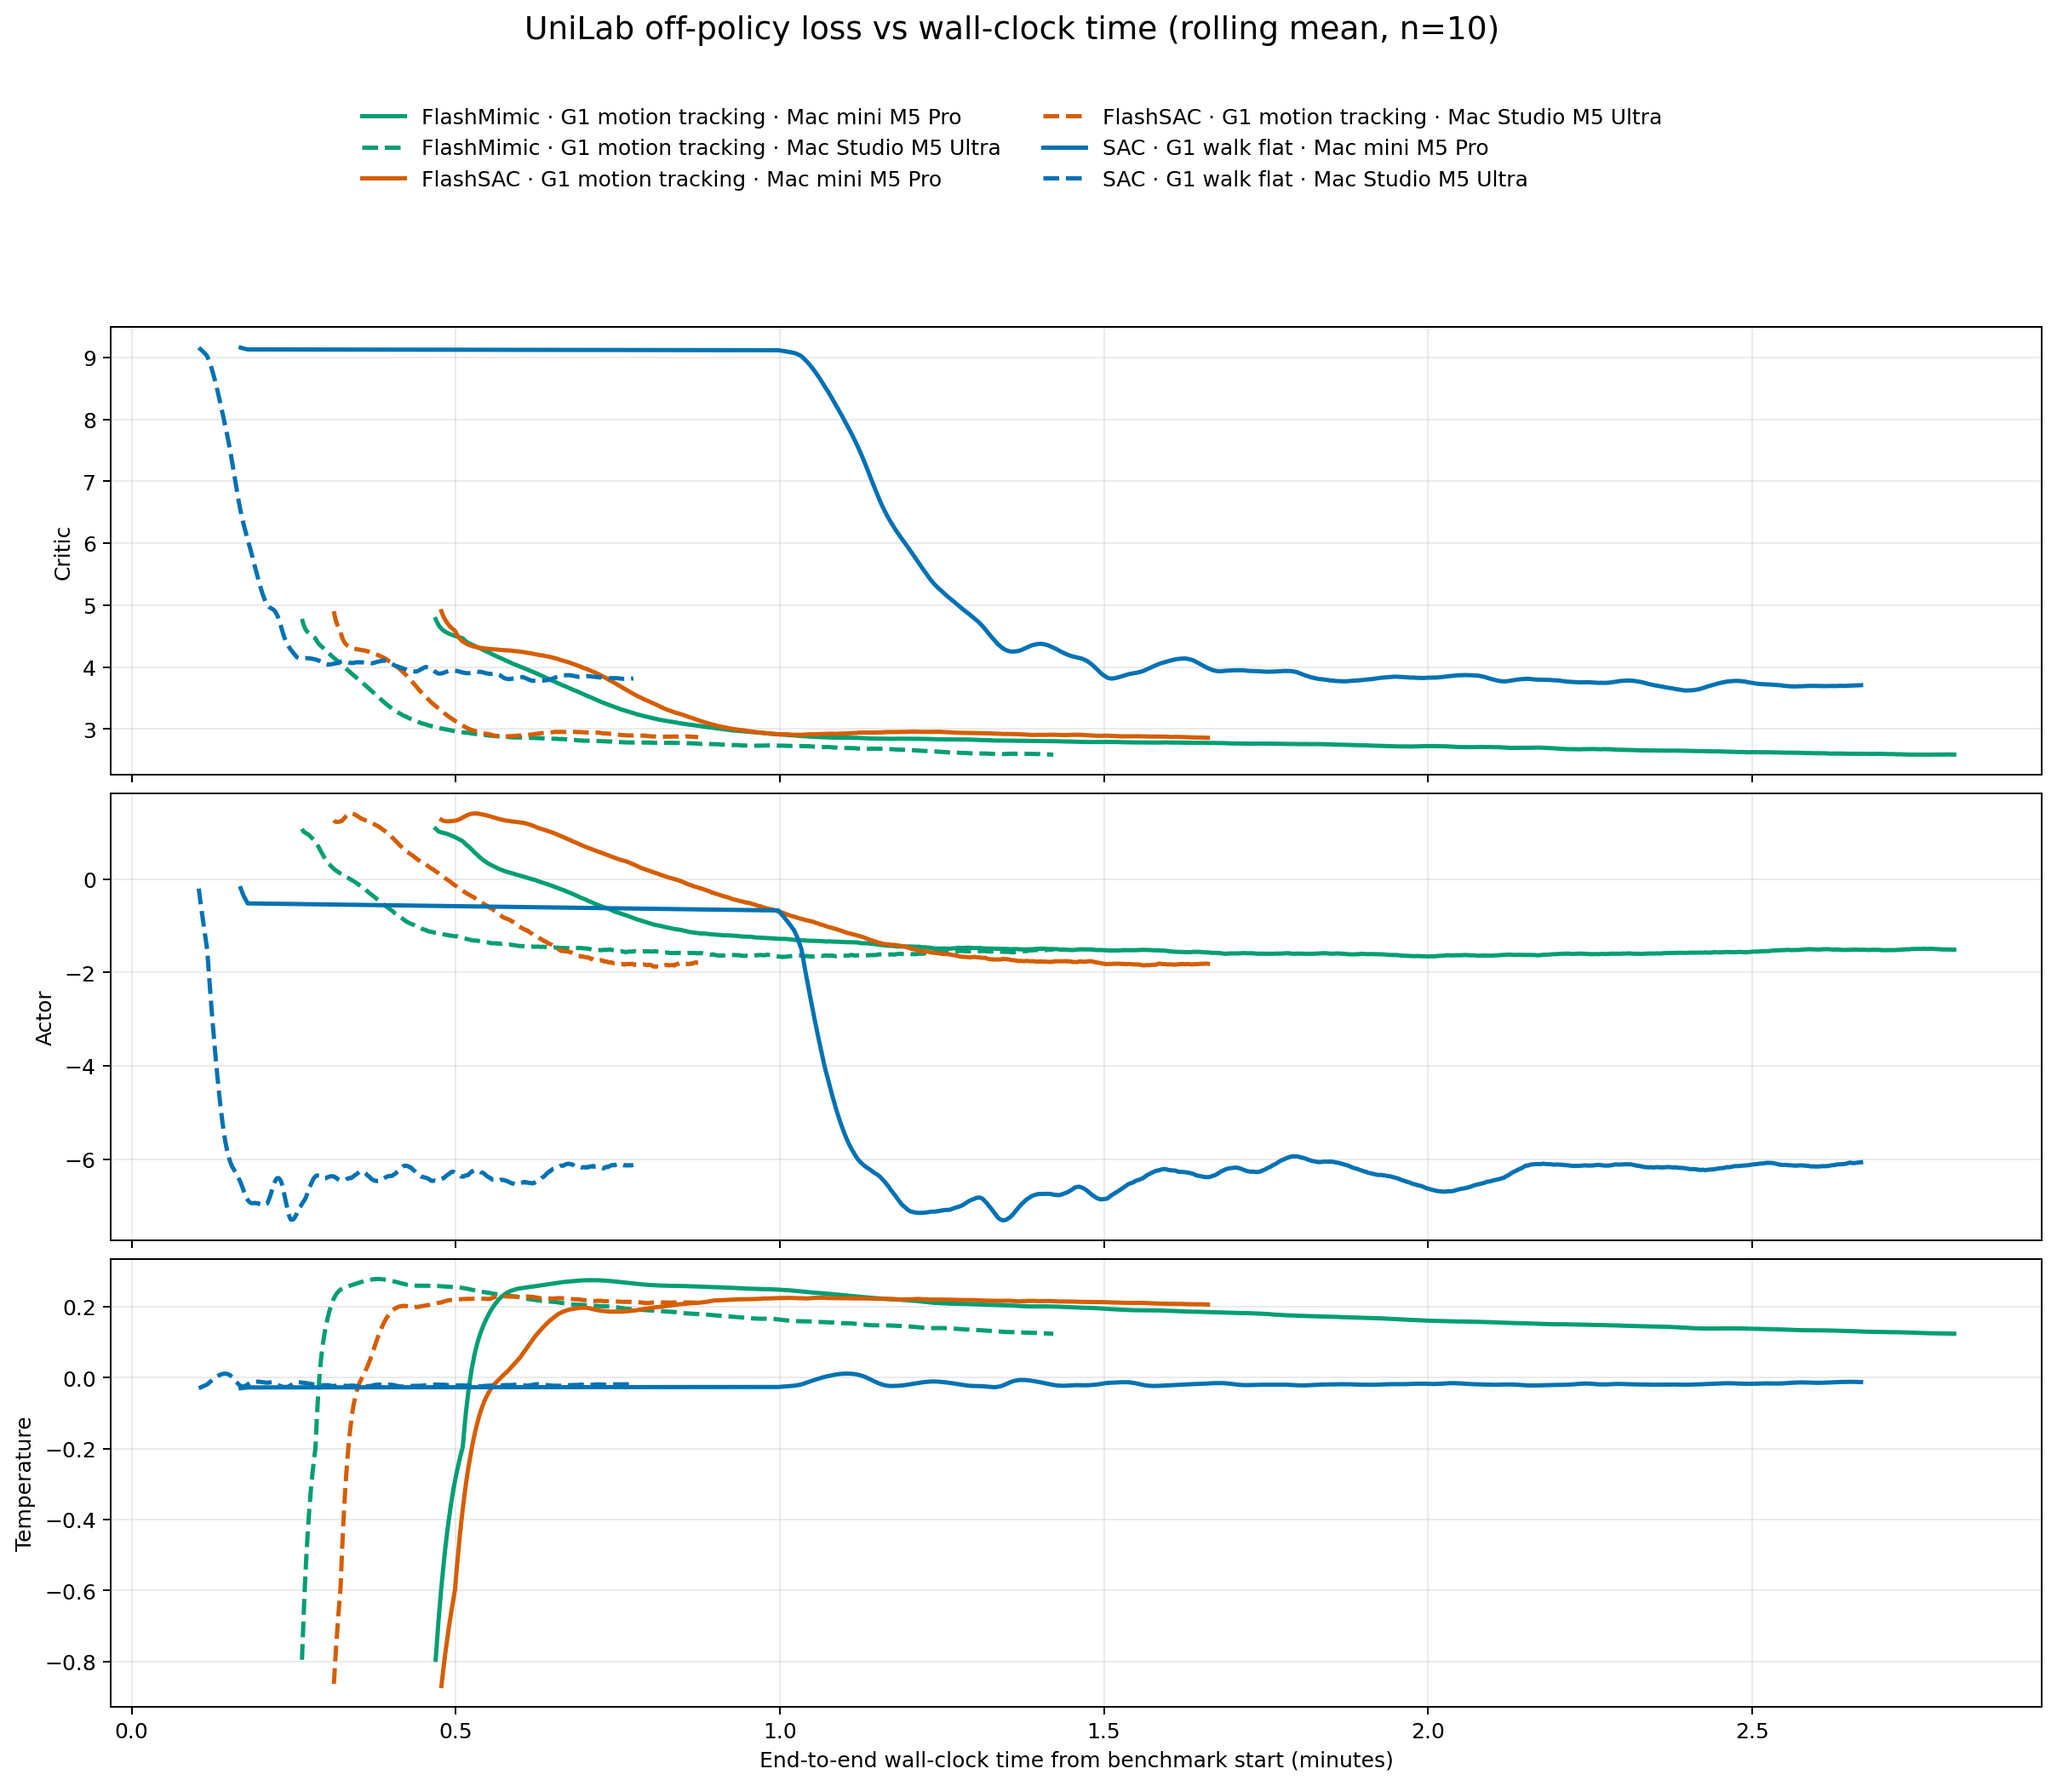
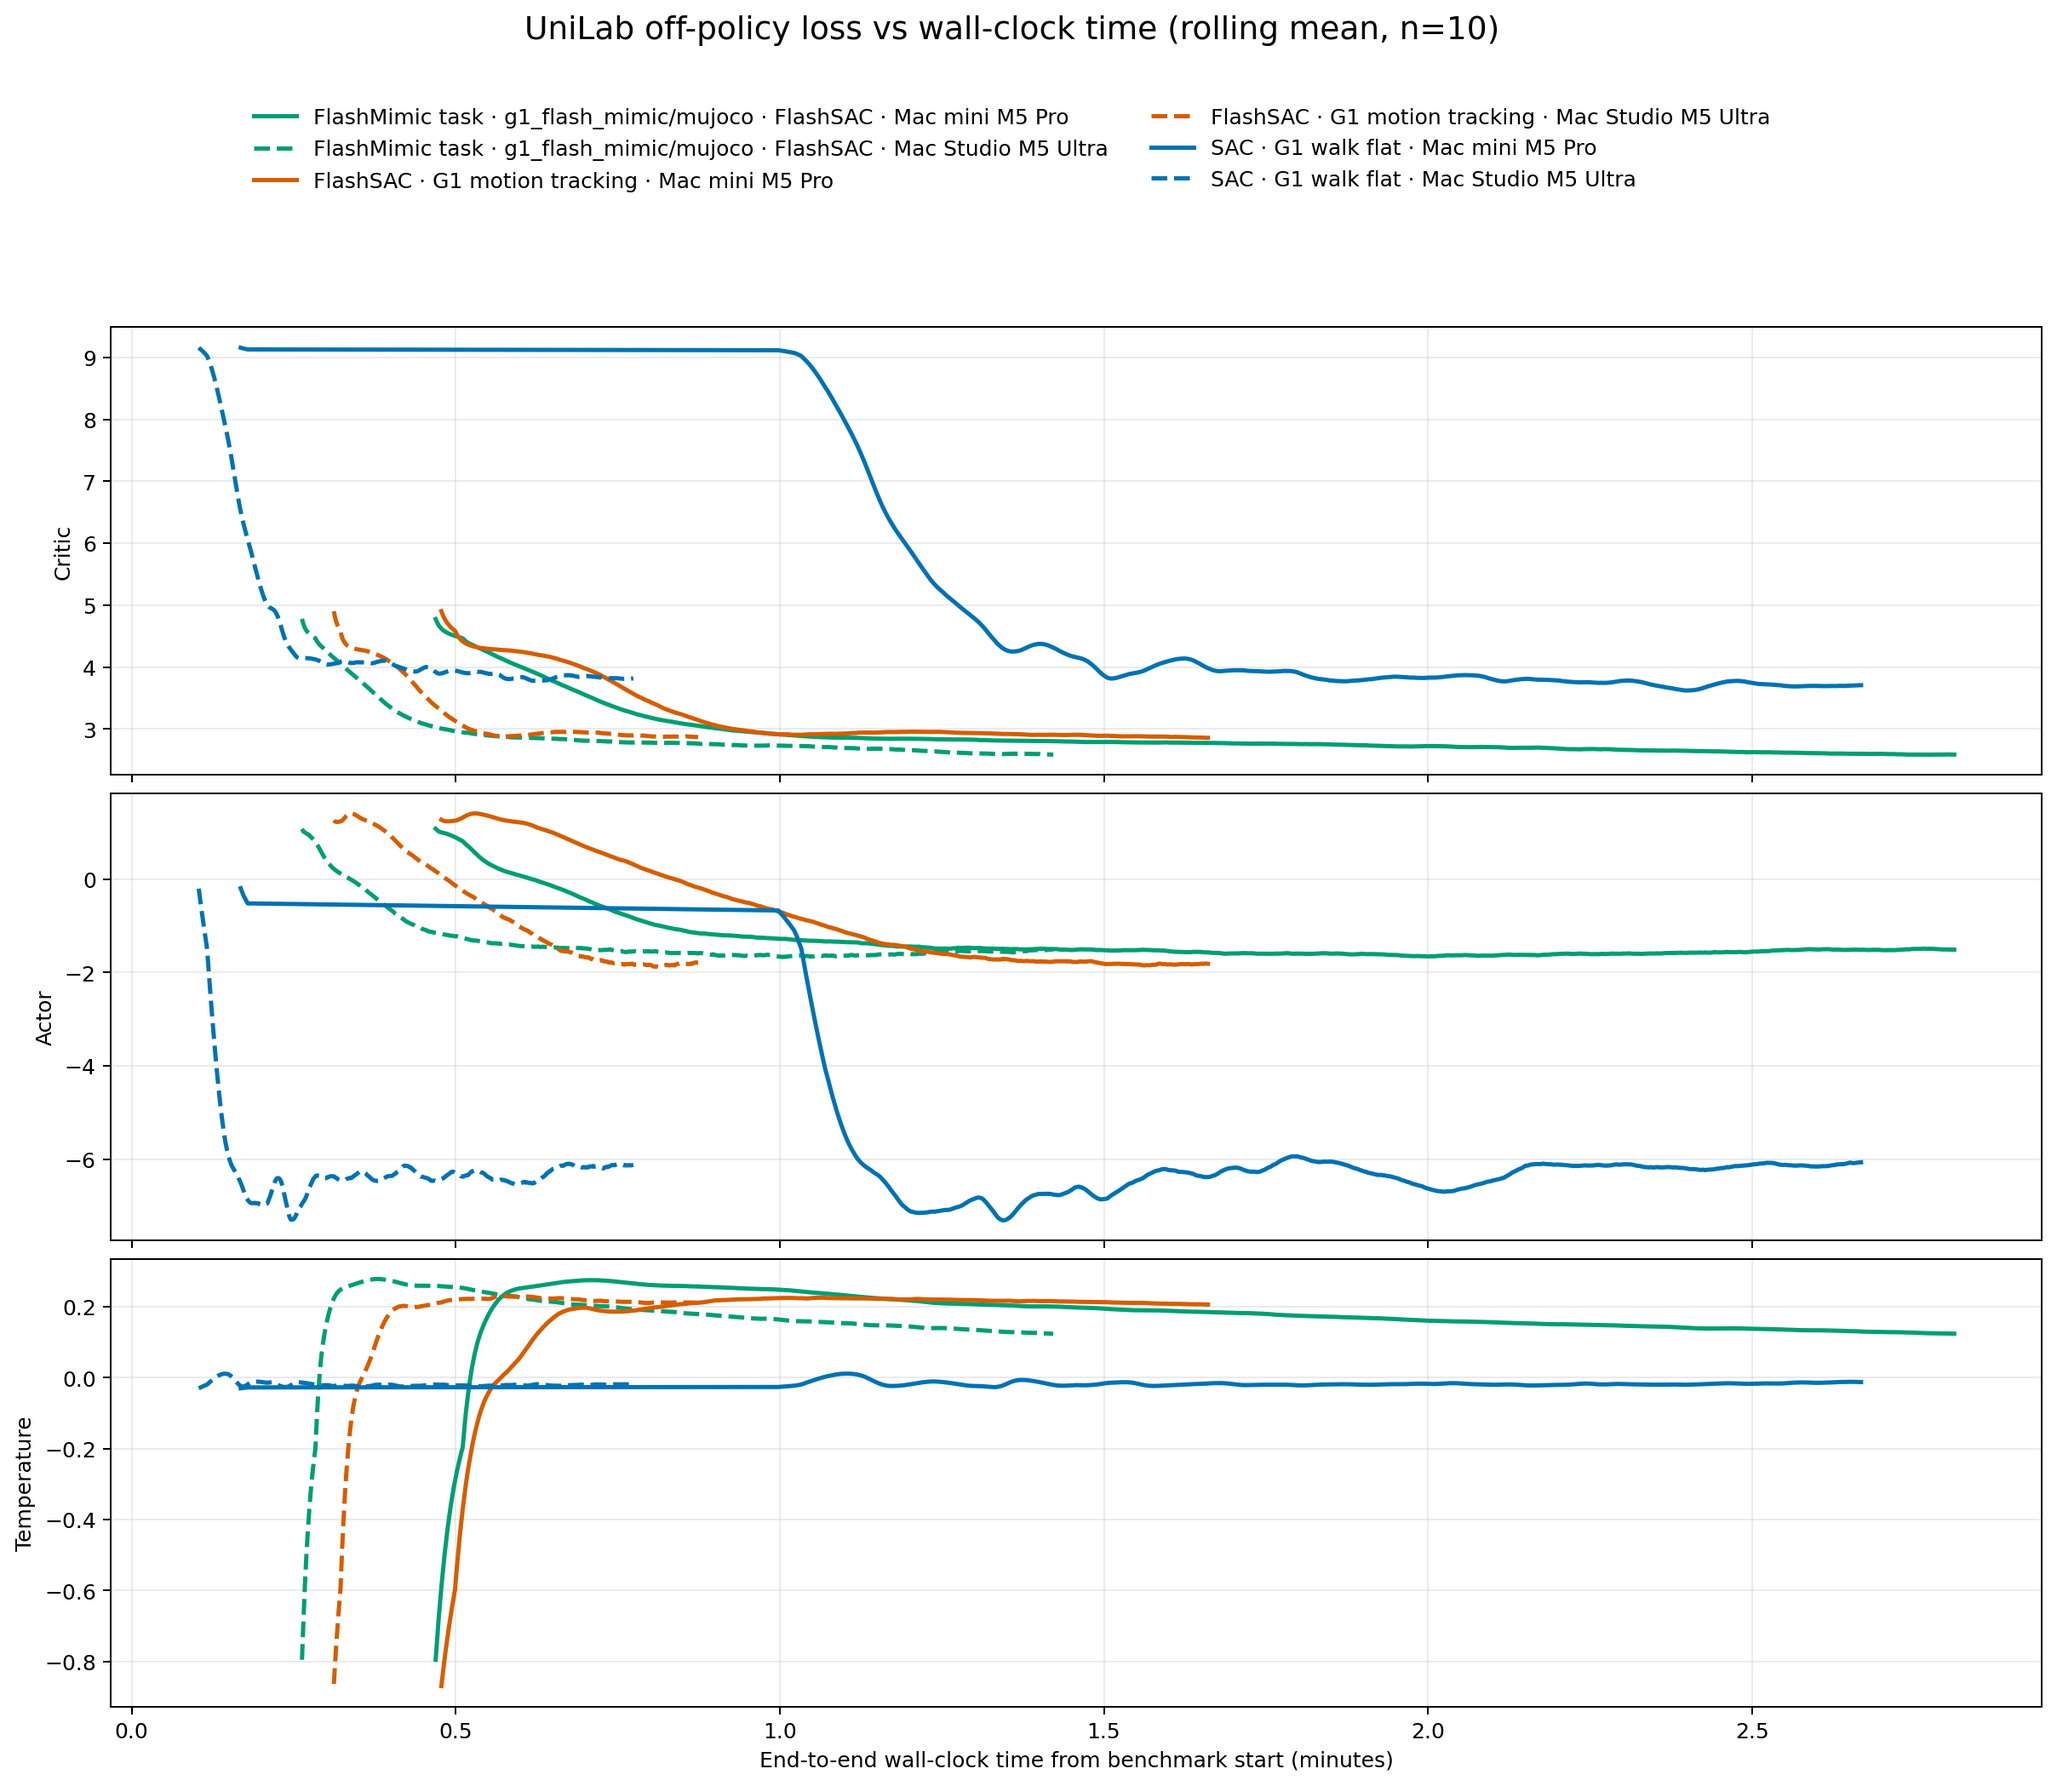
Clarify FlashMimic task and FlashSAC labeling

Changed region(s): [[0.1242, 0.062, 0.8071, 0.1239]]

diff --git a/scripts/analyze_results.py b/scripts/analyze_results.py
@@ -20,7 +20,7 @@ EXTRA_TAGS = ("Train/mean_reward", "Perf/total_fps", "Perf/iteration_time")
 ALGO_LABELS = {
     "sac_g1_walk_flat": "SAC · G1 walk flat",
     "flashsac_g1_motion_tracking": "FlashSAC · G1 motion tracking",
-    "flashmimic_g1_motion_tracking": "FlashMimic · G1 motion tracking",
+    "flashmimic_g1_motion_tracking": "FlashMimic task · g1_flash_mimic/mujoco · FlashSAC",
 }
 ALGO_COLORS = {
     "sac_g1_walk_flat": "#0072B2",

diff --git a/REPORT.md b/REPORT.md
@@ -56,8 +56,8 @@ separately on the test host.
 | Mac Studio M5 Ultra | SAC / G1 walk flat | completed | 500 | 1,044,480 | 40.88 | 49 | 25,433.45 | 15.9735 |
 | Mac mini M5 Pro | FlashSAC / G1 motion tracking | completed | 500 | 1,224,704 | 71.96 | 102 | 14,338.46 | 1.0364 |
 | Mac Studio M5 Ultra | FlashSAC / G1 motion tracking | completed | 500 | 1,224,704 | 34.51 | 55 | 30,628.15 | 0.9746 |
-| Mac mini M5 Pro | FlashMimic / G1 motion tracking | completed | 500 | 1,224,704 | 141.66 | 172 | 7,371.79 | 1.4907 |
-| Mac Studio M5 Ultra | FlashMimic / G1 motion tracking | completed | 500 | 1,224,704 | 70.40 | 88 | 14,860.87 | 1.6286 |
+| Mac mini M5 Pro | FlashMimic task `g1_flash_mimic/mujoco` using FlashSAC | completed | 500 | 1,224,704 | 141.66 | 172 | 7,371.79 | 1.4907 |
+| Mac Studio M5 Ultra | FlashMimic task `g1_flash_mimic/mujoco` using FlashSAC | completed | 500 | 1,224,704 | 70.40 | 88 | 14,860.87 | 1.6286 |
 
 `Training wall time` is `run_summary.json.training_wall_time_sec`.
 `End-to-end wall time` is the benchmark wrapper's integer-second interval from
@@ -67,7 +67,7 @@ before CLI process launch through successful process exit.
 |---|---:|---:|---:|
 | SAC / G1 walk flat | 2.47× | 72.9% | 69.9% |
 | FlashSAC / G1 motion tracking | 2.14× | 52.0% | 46.1% |
-| FlashMimic / G1 motion tracking | 2.02× | 50.3% | 48.8% |
+| FlashMimic task `g1_flash_mimic/mujoco` using FlashSAC | 2.02× | 50.3% | 48.8% |
 
 The requested loss figure contains critic, actor, and temperature loss panels.
 Curves use a ten-event rolling mean for readability. The extracted unsmoothed
@@ -77,22 +77,25 @@ events are published in `results/processed/curves.csv`.
 
 The performance comparison should use wall time, environment-step throughput,
 and within-recipe curve progression. Loss magnitude itself is not comparable
-across SAC, FlashSAC, and FlashMimic: their objectives, observation/action
-handling, and networks differ. FlashMimic is a motion-tracking task package
-whose learner is FlashSAC, rather than a third standalone learner algorithm.
+across SAC, FlashSAC, and the FlashMimic task: their objectives,
+observation/action handling, and networks differ. FlashMimic is a G1
+whole-body motion-imitation task package whose learner is FlashSAC, rather than
+a third standalone learner algorithm. The canonical task owner is
+`g1_flash_mimic/mujoco`; its configuration points to the packaged motion file
+`dance1_subject2_part.npz`.
 
 Within each matched recipe, the two machines reached similar loss scales after
 the same iteration/step budget while the Studio completed sooner. The final
 critic loss was 3.716/3.834 (mini/Studio) for SAC, 2.859/2.873 for FlashSAC,
-and 2.578/2.570 for FlashMimic. These close endpoints are an execution
+and 2.578/2.570 for the FlashMimic task. These close endpoints are an execution
 consistency check, not proof that the learned policies are equivalent.
 
 SAC shows the largest end-to-end gap: the Studio shortened the 500-iteration
 wrapper interval from 163 s to 49 s. Its final steady-state throughput advantage
 (2.47×) is smaller than the bounded-window training-time advantage (3.69×),
 which shows that startup/compilation overhead is material at this short budget.
-FlashSAC and FlashMimic show approximately twofold throughput and training-time
-differences.
+FlashSAC and the FlashMimic task show approximately twofold throughput and
+training-time differences.
 
 Five hundred iterations are sufficient to compare startup and steady-state
 execution under a fixed recipe, but not to establish final policy quality or

diff --git a/README.md b/README.md
@@ -7,13 +7,15 @@ runs on two Apple Silicon systems:
 |---|---:|---:|
 | SAC + MuJoCo + `g1_walk_flat` | M5 Pro | M5 Ultra |
 | FlashSAC + MuJoCo + `g1_motion_tracking` | M5 Pro | M5 Ultra |
-| FlashMimic + MuJoCo + `g1_flash_mimic` | M5 Pro | M5 Ultra |
+| FlashMimic task (`g1_flash_mimic/mujoco`) using FlashSAC | M5 Pro | M5 Ultra |
 
 The Mac Studio was described as both “M5 Max” and “M5 Ultra” in the original
 request. `system_profiler` identifies the tested machine as **Apple M5 Ultra**,
 so this repository uses that hardware-reported name. “flashmiic” was interpreted
-as the official `Motphys/FlashMimic` task package; FlashMimic uses FlashSAC and
-is not a separate learner algorithm.
+as the official `Motphys/FlashMimic` task package. FlashMimic uses FlashSAC and
+is not a separate learner algorithm. Its canonical MuJoCo task is
+`g1_flash_mimic/mujoco`; the pinned owner configuration tracks the packaged
+G1 motion asset `dance1_subject2_part.npz`.
 
 The measured results, plots, methodology, and limitations are in
 [REPORT.md](REPORT.md). Raw TensorBoard logs and run metadata are kept under
@@ -31,7 +33,7 @@ benchmark pins the following immutable inputs:
[1 lines of base64/hex data omitted]
 | unilab-rl | `1.4.11`; release commit `739986e63c623cd93a3c0eb93c7bcfb8f5a01784` |
 | unisim-core | `1.7.15`; release commit `07cf9f9e591899cf7855e1b8f36020b6570cf002` |
-| FlashMimic | `e0a2b5c10f1b3815de0b830f5c035ae24e95171e` (`0.1.0`) |
+| FlashMimic task package | `e0a2b5c10f1b3815de0b830f5c035ae24e95171e` (`0.1.0`) |
[1 lines of base64/hex data omitted]
 | Python | `3.13.15` |
 | PyTorch | `2.14.0` for latest UniLab; `2.14.1` for FlashMimic |
@@ -50,10 +52,10 @@ pinned current FlashMimic source still imports that symbol. Combining those two
 heads fails before training. The benchmark therefore uses:
 
 1. the latest pinned UniLab source and its frozen lock for SAC and FlashSAC;
-2. the pinned FlashMimic source and its own frozen `uv.lock`, which selects the
+2. the pinned FlashMimic task source and its own frozen `uv.lock`, which selects the
    compatible UniLab 1.3.4 release, for FlashMimic.
 
-This preserves upstream code and labels the tested inputs honestly; no local
+This preserves upstream code and labels the tested task and algorithm honestly; no local
 compatibility patch is applied.
 
 ## macOS deployment
